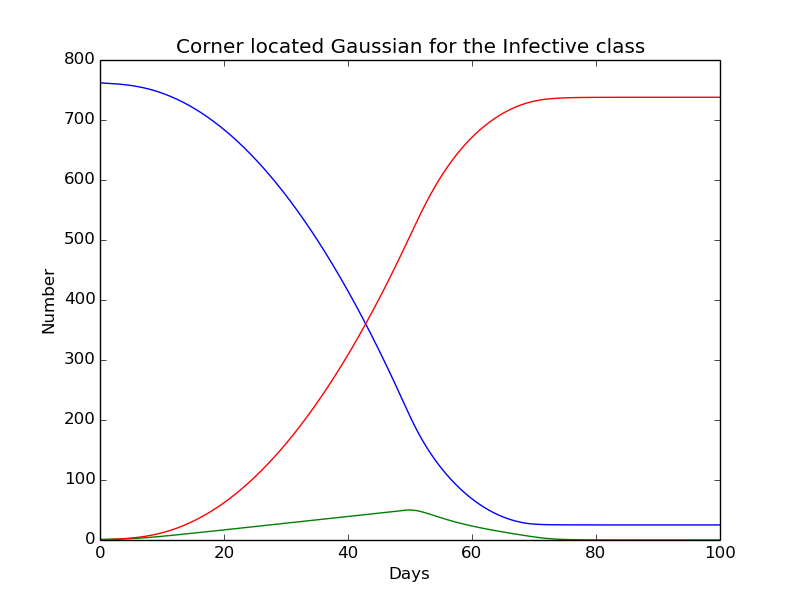
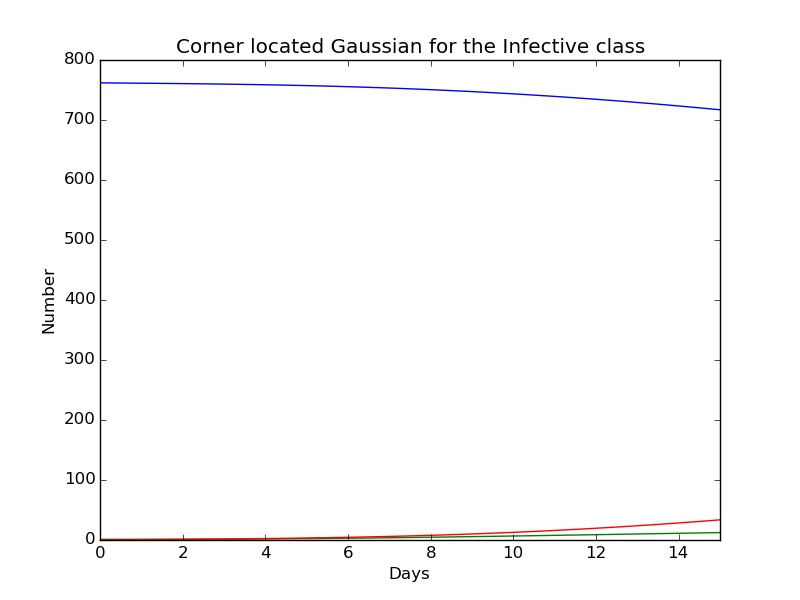
worked on british

diff --git a/spesialpensum_SIR/SIR_model.py b/spesialpensum_SIR/SIR_model.py
@@ -8,14 +8,14 @@ N = 763
 S_0 = 762
 I_0 = N-S_0
 R_0 = 0
-rho_list = [50,100,202,400]
+rho_list = [202]#50,100,202,400]
 
-for j in range(4):
+for j in range(1):
     rho = rho_list[j]
     r = 2.18*10**(-3)
     a = r*rho
-    T = 30
-    Nt = 100
+    T = 15
+    Nt = 100000
 
     t = np.linspace(0,T,Nt+1)
     dt = t[1]-t[0]
@@ -33,7 +33,7 @@ for j in range(4):
         R[i+1] = R[i] + dt*a*I[i]
 
 
-    plt.subplot(2,2,j+1)
+    #plt.subplot(2,2,j+1)
     plt.plot(t,S,label='susceptible')
     plt.plot(t,I,label='infective')
     plt.plot(t,R,label='removed')
@@ -42,8 +42,17 @@ for j in range(4):
     plt.ylabel("Number of boys")
     plt.title("rho = %s" % rho_list[j])
     #plt.legend()
-    plt.savefig("plots/English_boarding_school_changes.png")
+    #plt.savefig("plots/English_boarding_school_changes.png")
 plt.show()
+
+ch_list = [0,5,10,15]
+dt = T/float(Nt)
+for k in ch_list:
+	k_c	= int(k/dt)
+	print "k=",k_c*dt
+	print "S",S[k_c] 
+	print "I",I[k_c] 
+	print "R",R[k_c] 
 
 
 

diff --git a/2_PDE_Fisher_Kolmogoroff/script_geographic_models.py b/2_PDE_Fisher_Kolmogoroff/script_geographic_models.py
@@ -96,10 +96,10 @@ os.system('rm plots/lambda_*')
 #English boarding school
 
 
-T = 100
-Nt = 2000
+T = 15
+Nt = 10000
 X = 100
-Nx = 200
+Nx = 1000
 z_X = z_Y = 0
 
 rho = 202
@@ -107,7 +107,7 @@ r = 2.18*10**(-3)*(X**2)
 a = r*rho/float(X**2)
 D_s = D_i = D_r = 1
 
-phases = [T]
+phases = [0,5,10,15]
 
 #uniform spread
 """
@@ -128,7 +128,7 @@ def init_func(x,y):
 english_school(T,Nx,Nx,Nt,X,X,z_X,z_Y,init_func,a,r,D_s,D_i,D_r,moviename,classnames,phases)
 """
 # uniform spread with adjusted parameters
-
+"""
 dx = X/float(Nx)
 trav_name = "plots/boadring"
 moviename = 'plots/2D_british_school_long'
@@ -139,7 +139,7 @@ max_val = (1/float(X**2))*762
 title = "Uniform distribution for the Infective class"
 english_school(T,Nx,Nx,Nt,X,X,z_X,z_Y,init_func,a,r,D_s,D_i,D_r,moviename,classnames,phases,title)
 #build_plot(plotnames,moviename,parameter_values,para_name,X,T,z_X,max_val)
-
+"""
 # Gauss center
 
 moviename = 'plots/2D_british_school_gauss_long'
